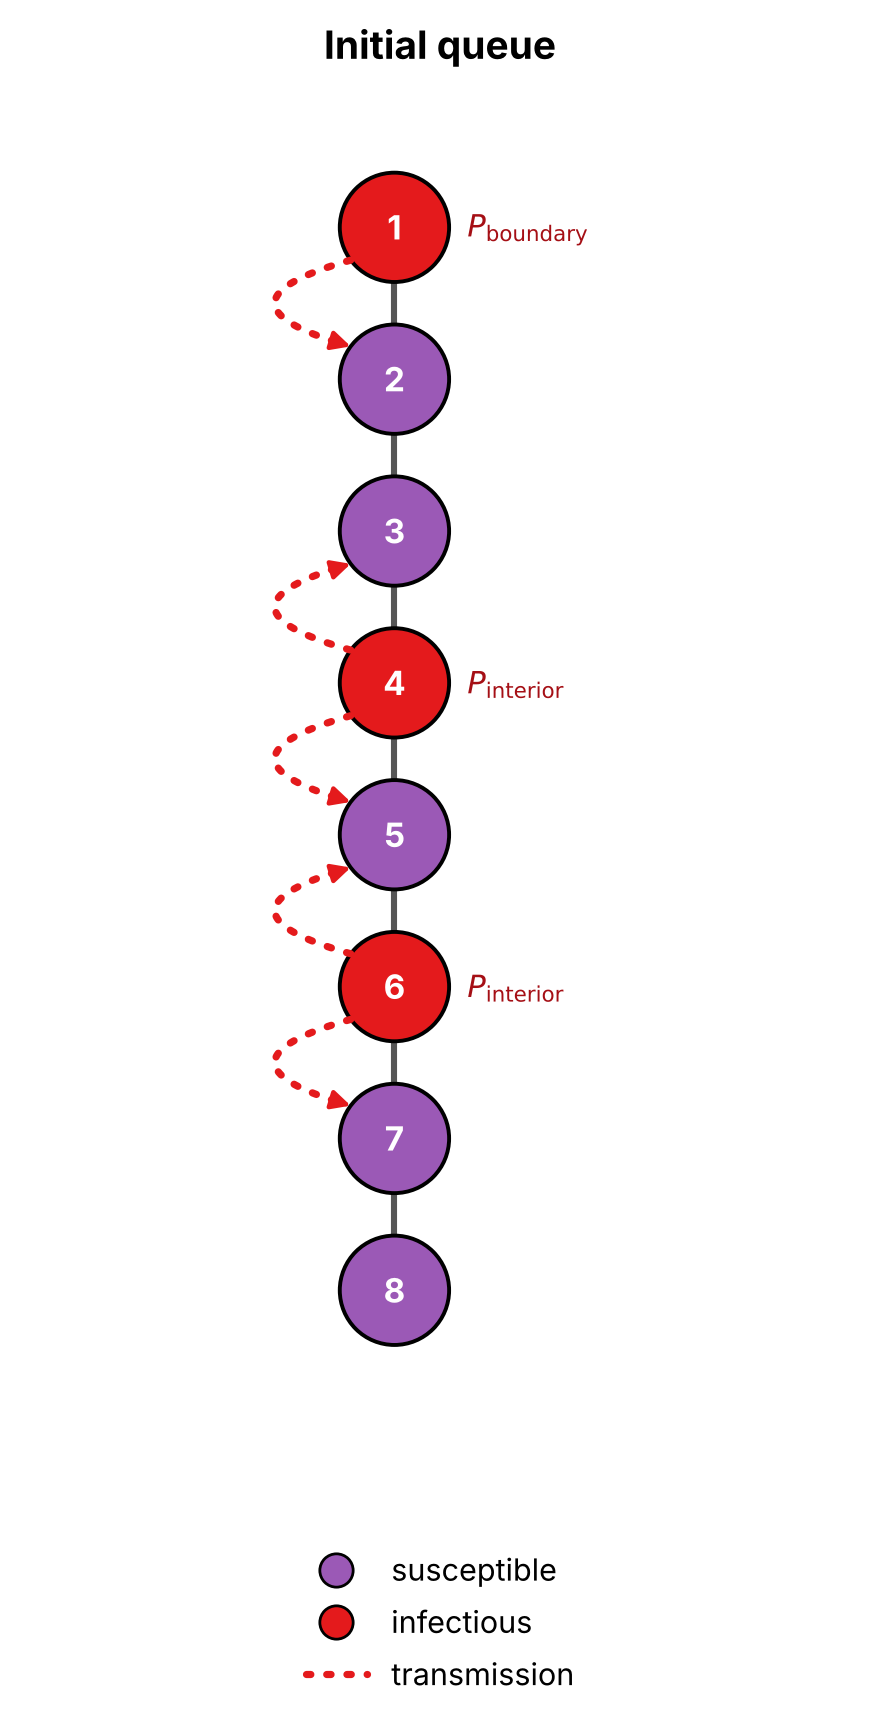
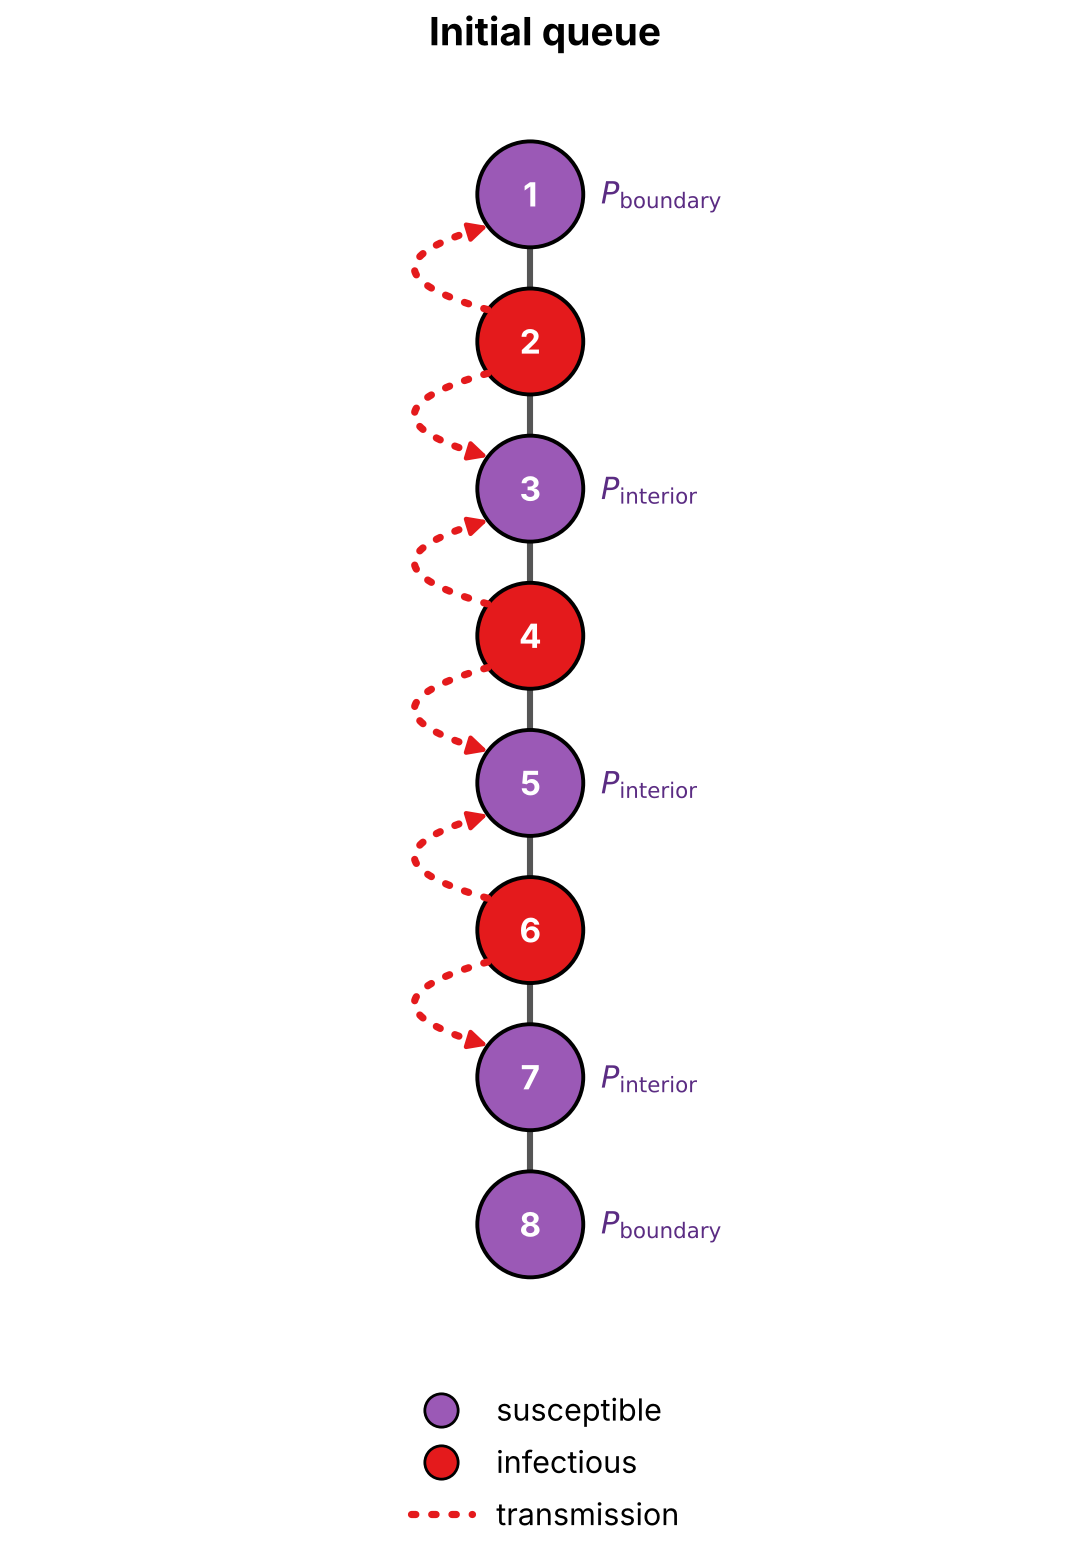
standing line post

diff --git a/_posts/2026-06-01-standing-line.md b/_posts/2026-06-01-standing-line.md
@@ -33,18 +33,15 @@ $$P_{\text{interior}}=(1-p)(1-(1-p)^2)=p(2-p)$$
 </div>
 
 
-
-
 Now we add up over all positions (2 hosts at the boundary, $N-2$ in the interior), under the assumption that all positions are equally likely to carry infectious hosts. The expected number of new infections within a period is:
 
 $$ \lambda=\mathbb{E}(I)= 2 p(1-p) + (N-2)p(1-p)(2-p)$$
 
 But what does the quantity $\lambda$ tell us about the spread of the disease in the population?
-Let's step back from our general formula and assume that only one host is infectious, i.e. $p=\tfrac{1}{N}$. In this case 
+Let's step back from our general formula and assume that only one host is infectious, i.e. $p=\tfrac{1}{N}$. In this case, within in one queue period (e.g. 15 minutes), $\lambda$ new infections would have arised. The queue moves forward in a first-in first-out fashion, the head position leaves the queue, and the tail position is populated by a newly arriving host. Since we assumed uniformly random initial conditions, we know that the queue movement does not change the dynamics: on average there is $\lamba$ more infectious hosts in the queue.  
 
 
-##Transmission uncertainty
-
+## Transmission uncertainty
 
 Here we implicitely assumed that $\beta=1$, i.e. that the probability of transmission was certain, given that a susceptible host is located next to an infectious host. It is straight-forward to change the probability of transmission from an infectious host:
 
@@ -57,11 +54,6 @@ $$ P_{\text{interior}}=(1-p)(1-(1-\beta p)^2) $$
 such that
 
 $$ \mathbb{E}(I)= (1-p)\left[ 2 \beta p + (N-2)(1-(1-\beta p)^2)\right] $$
-
-But what does the quantitity $\lambda=\mathbb{E}(I)$ tell us about the spread of the disease in the population?
-Let's step back from our general formula and assume that only one host is infectious, i.e. $\tfrac{1}{N}$. In this case 
-
-
 
 
 ## Splitting the queue
